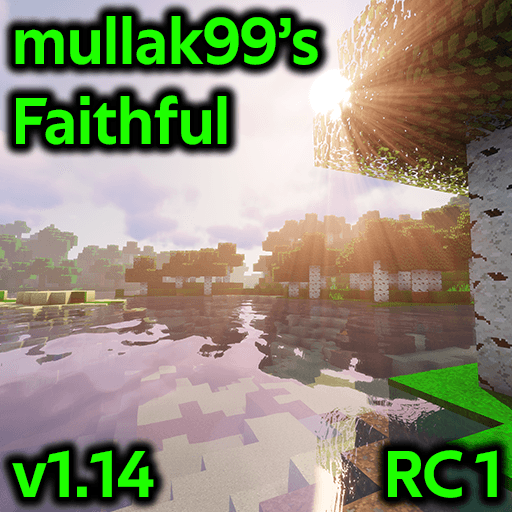
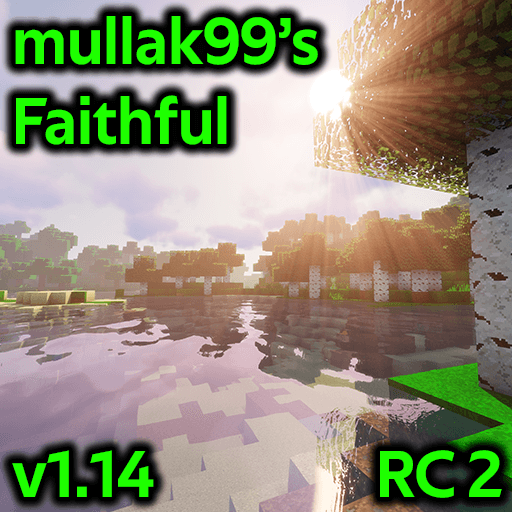
Updated to RC2
- Updated changelog

Changed region(s): [[0.7188, 0.8438, 1.0, 1.0]]

diff --git a/TODO.md b/TODO.md
@@ -1,3 +1,3 @@
 - Create CTM textures for stripped logs
 - Convert and add old CTM textures
-- More 3D Models (Crops, Pumpkin, etc.)
+- More 3D Models (Crops, Pumpkin, Jukebox, etc.)
